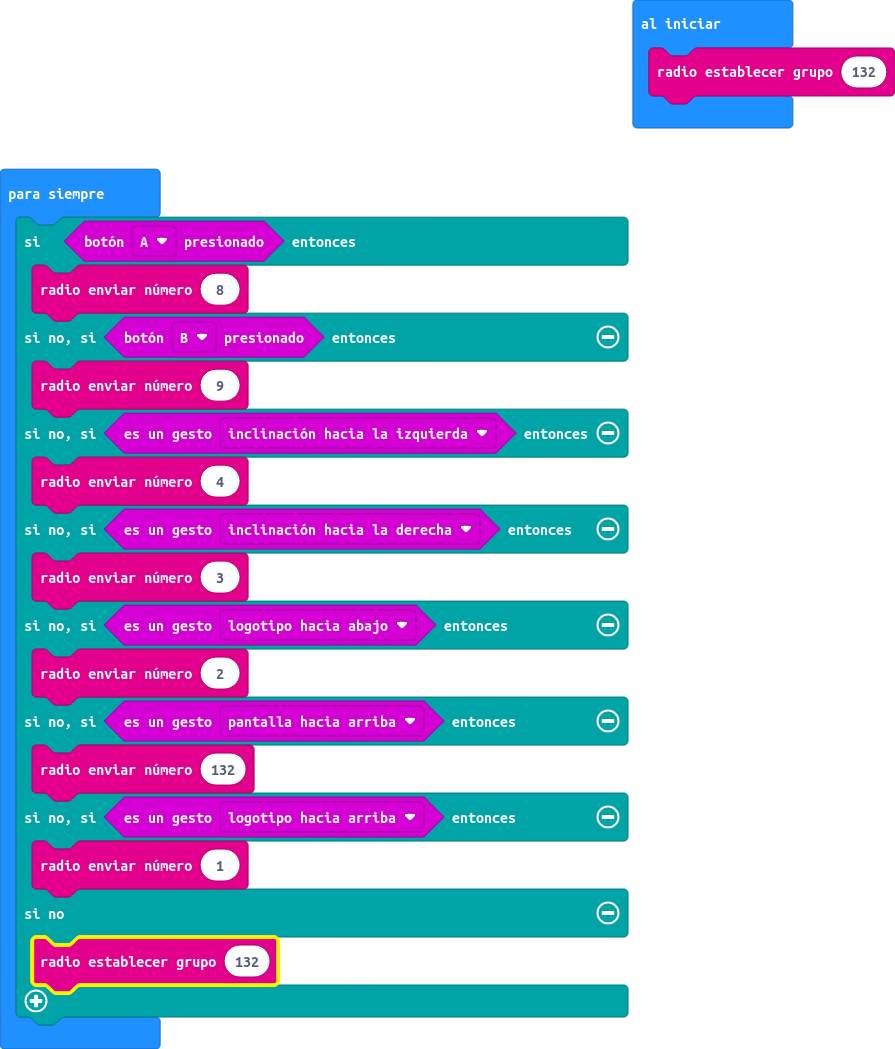
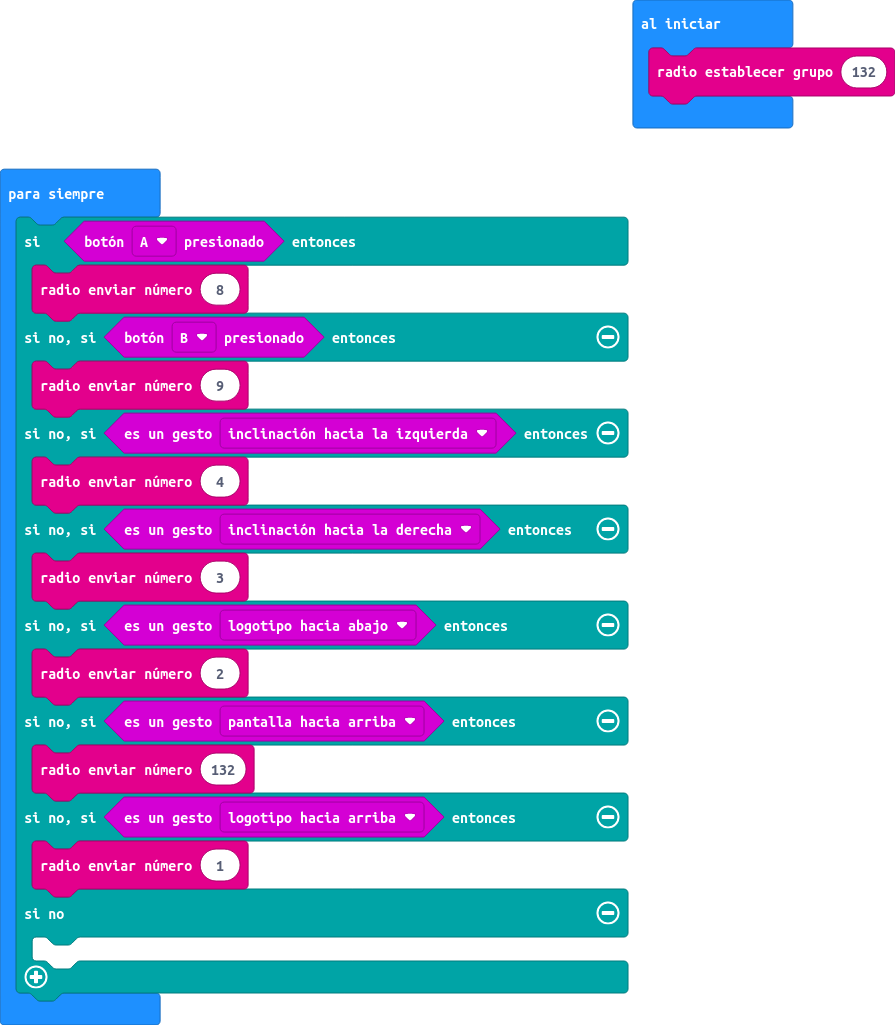
Actualizar main.blocks, main.ts

Changed region(s): [[0.0, 0.1561, 0.724, 0.9678], [0.724, 0.0, 1.0, 0.1249]]

diff --git a/main.ts b/main.ts
@@ -15,6 +15,6 @@ basic.forever(function () {
     } else if (input.isGesture(Gesture.LogoUp)) {
         radio.sendNumber(1)
     } else {
-        radio.setGroup(132)
+    	
     }
 })
